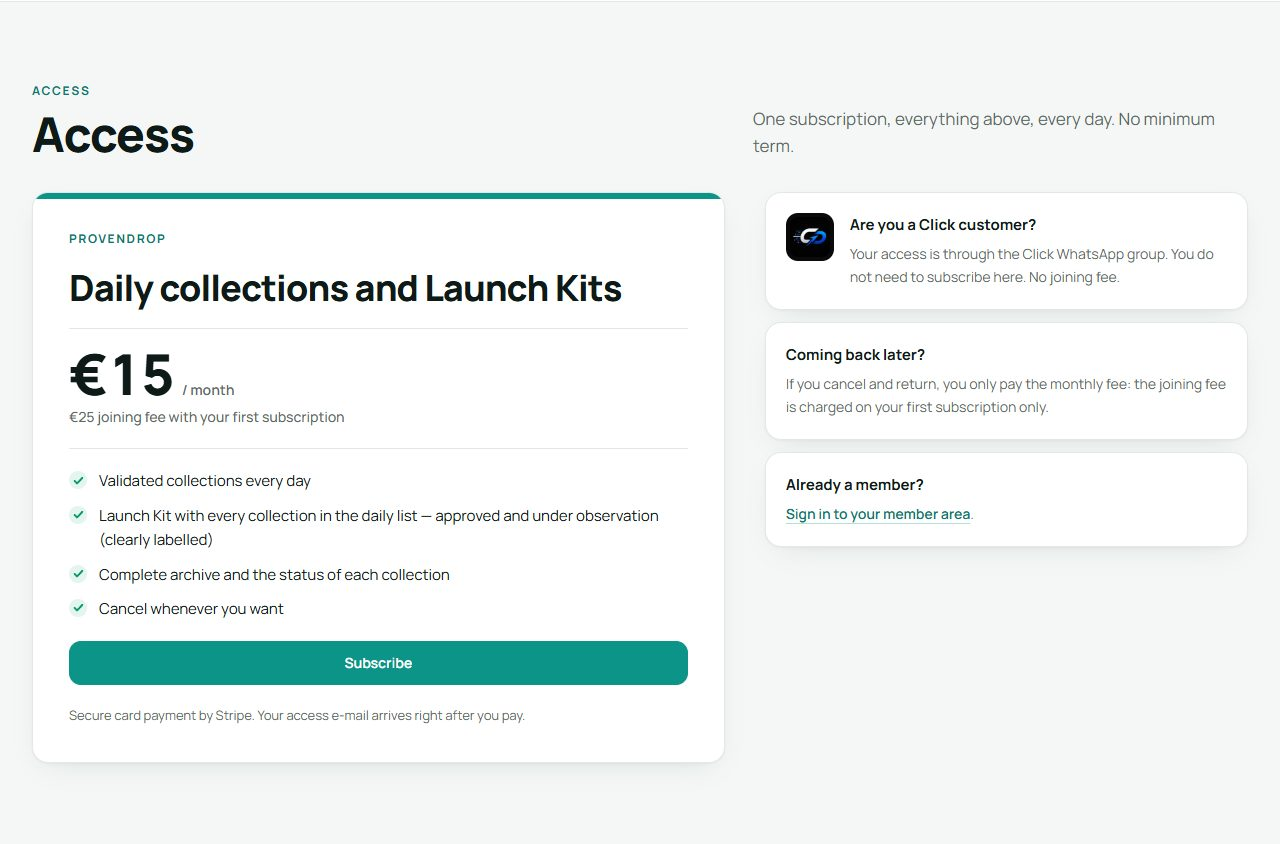
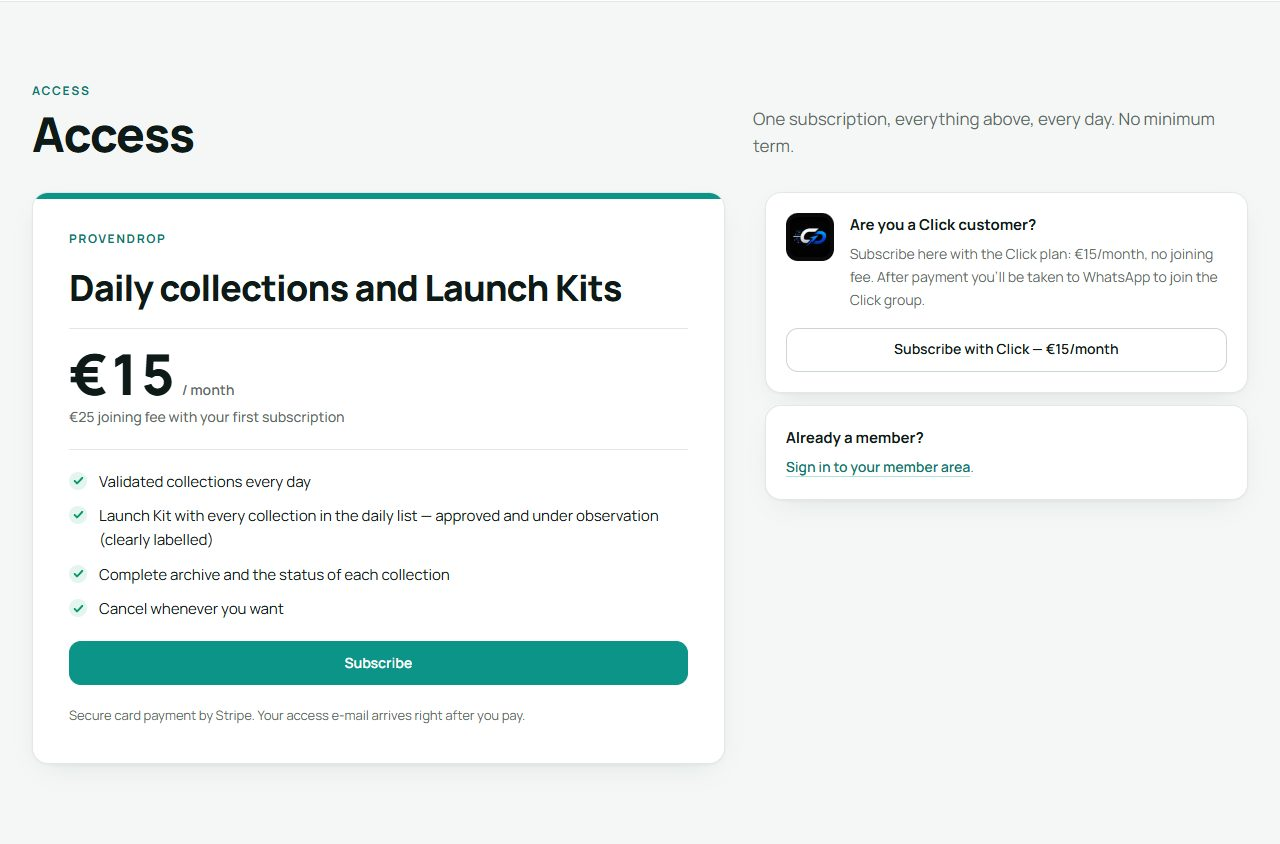
Docs e screenshots: Click no site, eventos de reembolso/disputa, scan de marca
STRIPE.md (link Click em config.js, redirecionamento com session_id, eventos
a ligar à mão, por fazer), TESTE.md (§0 sem vídeo, botões Click, scan de todo
o repositório sem a marca dos criativos de exemplo; §7.6 pelo botão do site;
§7.8 reembolso total), README (fluxo Click e eventos) e screenshots "depois"
regenerados.

Changed region(s): [[0.5938, 0.2773, 0.9688, 0.6161], [0.0625, 0.5545, 0.25, 0.5853]]

diff --git a/README.md b/README.md
@@ -8,9 +8,9 @@ Site estático (GitHub Pages) + plataforma de membros para a subscrição direta
 
 | | Via Click | Direto |
 |---|---|---|
-| Como paga | Payment Link que a Click envia aos clientes dela (fica como está) | Botão **Subscribe** do site → Payment Link "ProvenDrop Direct" |
+| Como paga | Botão **Subscribe with Click — €15/month** do site (ou o mesmo Payment Link enviado pela Click) → Payment Link "ProvenDrop via Click", sem adesão | Botão **Subscribe** do site → Payment Link "ProvenDrop Direct" (15 €/mês + 25 € de adesão) |
 | Onde recebe | Grupo de WhatsApp da Click (bot `/pr`) | Área pessoal `app.html` + e-mail diário |
-| Depois de pagar | `bem-vindo-click.html` | `bem-vindo.html` → e-mail com magic link → `app.html` |
+| Depois de pagar | `bem-vindo-click.html?session_id=…` → botão WhatsApp (+351 920 414 823) com o código da compra | `bem-vindo.html` → e-mail com magic link → `app.html` |
 | Registo | `subscritores.origem = 'click'` (sem login, sem e-mail; serve para a comissão) | `subscritores.origem = 'direto'` + utilizador Auth |
 
 O research, a Metodologia v7, o bot da Click, as folhas Google e a rotina diária não mudam. A única novidade na rotina é a chamada ao script `publicar_plataforma.py` (ver abaixo).
@@ -29,7 +29,7 @@ Os **segredos** (Stripe, Resend, CRON) nunca entram no repositório: vão para `
 |---|---|
 | `config.js` | Configuração pública (ver acima). Desde 2026-11-06 com os links **reais** do Stripe (Direct e portal); `STRIPE_LINK_RETURN` vazio até existir o link de regresso real. |
 | `config.local.example.js` | Modelo do `config.local.js` (links de **teste** do Stripe, só carregado em `localhost`; o próprio `config.local.js` está no `.gitignore`; os links de teste ficam no vault, não no repo). |
-| `index.html` | Página pública (inglês), **montra** desde 2026-11-06: não lê a folha pública nem mostra números reais (hero e lista do dia são maquetes estáticas com números desfocados e selo "Members only"; sem arquivo; validação em 3 frases; nichos só com nomes; mercados só com nomes; kit sem a estrutura do zip; FAQ genérico). Vídeo UGC de exemplo (`assets/ugc-example.mp4`), blocos Click com logo e "No joining fee", faixa "In partnership with Click Dynamics", Instagram no rodapé, meta tags Open Graph. |
+| `index.html` | Página pública (inglês), **montra** desde 2026-11-06: não lê a folha pública nem mostra números reais (hero e lista do dia são maquetes estáticas com números desfocados e selo "Members only"; sem arquivo; validação em 3 frases; nichos só com nomes; mercados só com nomes; kit em alto nível: creative prompt, reference photos, keywords, negative keywords, Shopping titles, landing-page copy, opportunity analysis; FAQ genérico). Cartões "Are you a Click customer?" com logo e botão "Subscribe with Click — €15/month", faixa "In partnership with Click Dynamics", Instagram no rodapé, meta tags Open Graph. Galeria de exemplos por fazer. |
 | `bem-vindo.html` | Pós-pagamento da subscrição direta. Logo novo, Instagram no rodapé. |
 | `bem-vindo-click.html` | Pós-pagamento dos clientes Click: lê `?session_id=` do redirecionamento do Stripe e abre o WhatsApp (`wa.me/351920414823`) com a mensagem pré-definida que leva o código da compra (nada mais é lido, guardado ou pedido ao Stripe). Texto PT/EN, "No joining fee". |
 | `app.html` | Área pessoal (inglês): login por magic link, Today, Archive, Preferences, Subscription, guia de 1 minuto. Só usa a chave *anon*; o acesso é decidido pelas políticas RLS. Kits por URL assinada (15 min) do bucket privado. |
@@ -44,7 +44,7 @@ Os **segredos** (Stripe, Resend, CRON) nunca entram no repositório: vão para `
 | `supabase/functions/_shared/` | `email.ts` (Resend + molde), `auth.ts` (x-cron-secret em tempo constante), `log.ts` (sem e-mails nem chaves nos logs), `alerta.ts` (e-mail ao Afonso: `ALERT_EMAIL`). |
 | `supabase/.env.example` | Nomes das variáveis (sem valores). |
 | `app.js` | Lógica da área pessoal (fora do HTML para a CSP ser estrita). "Today" e "Archive" são tabelas (uma linha por coleção, kit por baixo do nome; blocos chave/valor abaixo de 768 px); `renderFeed` preenche os 4 contadores do dia. Métricas (2026-11-06, só aqui, nunca no site): **Meta ads** = `anuncios_meta` ou `anuncios_ativos − anuncios_google`; **Google ads** = `anuncios_google`; **Meta reach** = `alcance_eu`, "No Meta data" quando não há anúncios Meta (nunca um 0 falso) e marcado com o país quando os anúncios são só fora da UE (GB/US/CH); NL/AT/CH/HU com nome (7.ª célula na faixa de mercados); no arquivo, coluna "Meta reach" e o mercado do veredito 🟢 ao lado do score (`7.2 CH`). Nichos selecionáveis: três (joalharia só como rótulo de linhas antigas). O fluxo Supabase (`feed_dia`, `verdes`, `subscritores`, kits) não mudou. |
-| `assets/` | `logo.svg` / `logo-email.png` (logo ProvenDrop: quadrado teal com 3 barras e um ponto), `og-image.png` (1200×630), `click-logo-{128,256}.{webp,png}` (logo da Click Dynamics), `ugc-example.mp4` + `ugc-example-poster.webp` (vídeo UGC de exemplo, gerado pelos prompts do kit, cortado para não mostrar marcas, H.264 ≤ 3 MB). Na raiz: `favicon.svg`, `favicon-32.png`, `favicon-16.png` (versão simplificada sem ponto, legível a 16 px), `apple-touch-icon.png`. |
+| `assets/` | `logo.svg` / `logo-email.png` (logo ProvenDrop: quadrado teal com 3 barras e um ponto), `og-image.png` (1200×630), `click-logo-{128,256}.{webp,png}` (logo da Click Dynamics). Na raiz: `favicon.svg`, `favicon-32.png`, `favicon-16.png` (versão simplificada sem ponto, legível a 16 px), `apple-touch-icon.png`. |
 | `docs/screenshots/` | `antes/` e `depois/` (1280 e 375 px, JPEG) das secções alteradas a 2026-11-06. |
 | `src/tailwind.css` | Fonte do CSS (Tailwind v4): tema "clean SaaS" (página clara `#F4F7F6`, cartões brancos arredondados com sombra suave, marca teal `#0D9488`, um painel escuro `#07201E` para os dados do dia, Manrope), e as poucas classes de componente que o `app.js` usa por nome (`.msg`, `.status`, `.dt`/`.dt-dark`, `.strip`, `.plat`, `.redact`, `.side-link`). |
 | `tailwind.css` | CSS compilado e minificado, lido por `index.html` e `app.html` (fica no repo: o GitHub Pages não faz build). Regenerar com `npm run build:css` sempre que se mudarem classes nas páginas ou no `app.js`. |
@@ -96,7 +96,8 @@ Códigos de saída: 0 ok · 3 rede bloqueada · 4 credenciais. Os zips encontrad
 
 - Acesso (`public.tem_acesso`): subscrição **direto**, não bloqueada, `ativo` ou `em_atraso` há menos de **7 dias** (decisão de 2026-11-02). Depois a área fecha e o e-mail diário pára; `invoice.paid` repõe.
 - Quem cancela e volta **não paga a adesão outra vez**: a área mostra o link de regresso (`STRIPE_LINK_RETURN`, só mensalidade) a ex-membros, quando esse link existir (em modo real ainda não existe: até lá a área mostra o Subscribe normal). O site diz que a adesão é cobrada na primeira subscrição.
-- **Adesão só no Direct** (decisão de 2026-11-06): quem entra pela Click paga 15 €/mês sem adesão; o link via Click nunca aparece no site.
+- **Adesão só no Direct** (decisão de 2026-11-06): quem entra pela Click paga 15 €/mês sem adesão. O link via Click está no site (`STRIPE_LINK_CLICK`, botão "Subscribe with Click" nos cartões "Are you a Click customer?"): botão → Stripe → `bem-vindo-click.html?session_id=…` → WhatsApp (+351 920 414 823) com o código da compra.
+- **Reembolso total e disputa revogam o acesso** (`charge.refunded` total e `charge.dispute.created` marcam `subscritores.bloqueado_em`); os dois eventos têm de estar ligados no endpoint real.
 - Não há promessa de vagas por nicho/país nem de reembolso (A9): o nicho e os países servem para ordenar as coleções.
 - Disputa → acesso suspenso + alerta; reembolso → só alerta. Alertas vão para `ALERT_EMAIL` (ou `EMAIL_REPLY_TO`).
 

diff --git a/docs/STRIPE.md b/docs/STRIPE.md
@@ -12,7 +12,7 @@ Rótulos dos menus: o Dashboard do Stripe em português (Europa). Entre parênte
 | Produto **ProvenDrop via Click**, 15 €/mês | `price_1UYaWLJPREpzETp6beErOUxC` | segredo `STRIPE_PRICE_CLICK` (valor por omissão do `setup-supabase.ps1`) |
 | Produto **Adesão ProvenDrop**, 25 € uma vez, **só no link Direct** | `price_1UYaXiJPREpzETp6GoaPRcuA` (produto `prod_VZk1TG0Nv8evG3`) | só no Stripe |
 | Payment Link **Direct** (Direct + Adesão: 40 € no 1.º mês, depois 15 €/mês) | `https://buy.stripe.com/7sYaEYd3Rcmid5w6nA4gg00` | `config.js` → `STRIPE_LINK_DIRECT` |
-| Payment Link **via Click** (só ProvenDrop via Click, 15 €/mês, **sem adesão**) | `https://buy.stripe.com/9B6eVe5BpgCyfdEaDQ4gg01` | só a Click o usa; nunca aparece no site |
+| Payment Link **via Click** (só ProvenDrop via Click, 15 €/mês, **sem adesão**) | `https://buy.stripe.com/9B6eVe5BpgCyfdEaDQ4gg01` | `config.js` → `STRIPE_LINK_CLICK`: botão "Subscribe with Click — €15/month" nos cartões "Are you a Click customer?" do site (desde 2026-11-06, visível a todos); a Click também o pode enviar |
 | Portal de cliente | `https://billing.stripe.com/p/login/7sYaEYd3Rcmid5w6nA4gg00` | `config.js` → `STRIPE_PORTAL_LINK` |
 | Webhook `provendrop-supabase` | `we_1UYavbJPREpzETp6L1Gn66lh` → `https://maljrfgnnhtrjunnwlre.supabase.co/functions/v1/stripe-webhook` | segredo `STRIPE_WEBHOOK_SECRET` (o `whsec_` deste endpoint) |
 | Payment Link **Direct de regresso** (só mensalidade, para ex-membros) | **ainda não existe em modo real** | `config.js` → `STRIPE_LINK_RETURN` fica vazio; a área mostra o Subscribe normal a ex-membros até existir |
@@ -37,9 +37,9 @@ Categoria fiscal dos três produtos: General – Services (`txcd_20030000`). Str
 - **Produtos**: só ProvenDrop via Click 15,00 €/mês. **Sem** adesão.
 - **Opções**: e-mail e **telefone** obrigatório (para a Click juntar ao grupo); sem códigos promocionais.
 - **Metadados**: `origem` = `click`.
-- **Depois do pagamento** → `https://afonsolopes22.github.io/ProvenDrop/bem-vindo-click.html`.
+- **Depois do pagamento** → `https://afonsolopes22.github.io/ProvenDrop/bem-vindo-click.html` com `?session_id={CHECKOUT_SESSION_ID}` (confirmar que o redirecionamento inclui este parâmetro: a página põe o código da compra na mensagem de WhatsApp para o +351 920 414 823).
 
-Quem paga por este link fica em `subscricoes`/`subscritores` com `origem = click` e o estado da subscrição (para a comissão), **sem login e sem acesso** à área (RLS).
+Quem paga por este link fica em `subscricoes`/`subscritores` com `origem = click` e o estado da subscrição (para a comissão), **sem login e sem acesso** à área (RLS). Recebe as coleções no grupo de WhatsApp da Click.
 
 ## c) Portal de cliente: confirmar
 
@@ -86,8 +86,8 @@ O estado **nunca** é copiado do evento: em todos os casos a função relê a su
 | `checkout.session.completed` (pago) | Sincroniza a subscrição da sessão. Origem: metadata do link → price_id → payment link. Alerta se o e-mail ficar com duas subscrições a cobrar. |
 | `customer.subscription.created` / `updated` / `deleted` | Sincroniza: `ativo` (active/trialing), `em_atraso` (past_due/unpaid; guarda `em_atraso_desde`), `incompleto` (incomplete: sem login nem e-mail), `cancelado` (canceled/paused/incomplete_expired). `cancel_at_period_end` → `acesso_fim` (B4). |
 | `invoice.paid` / `invoice.payment_failed` | Sincroniza a subscrição da fatura (relida no Stripe). |
-| `charge.dispute.created` | Bloqueia o acesso de todos os subscritores desse cliente (`bloqueado_em`) e envia alerta com o prazo de resposta (A4). |
-| `charge.refunded` | Só alerta (pode ser parcial ou de boa vontade); cancelar à mão no Stripe se for caso disso. |
+| `charge.dispute.created` | Marca todos os subscritores desse cliente (`bloqueado_em`, `bloqueado_motivo = "disputa dp_…"`), o que revoga o acesso (`tem_acesso` → false), e envia alerta com o prazo de resposta (A4). |
+| `charge.refunded` | **Total** (`amount_refunded ≥ amount`): marca o subscritor (`bloqueado_motivo = "reembolso ch_…"`) e revoga o acesso, alerta a pedir o cancelamento da subscrição no Stripe. **Parcial**: só alerta (A4, 2026-11-06). |
 
 Acesso (`public.tem_acesso`): origem direto, não bloqueado, `ativo` **ou** `em_atraso` há menos de **7 dias** (M1). Depois disso a área mostra "Payment overdue" e o e-mail diário deixa de sair; `invoice.paid` repõe tudo.
 
@@ -104,8 +104,9 @@ Em modo real o Checkout, o portal, os recibos e as faturas mostram o **Nome púb
 ## Por fazer (à mão, no painel ou no terminal)
 
 - [ ] Correr `scripts\setup-supabase.ps1` com `sk_live_` e o `whsec_` do endpoint real (os `price_` reais já são os valores por omissão). No fim o script volta a fazer deploy do `stripe-webhook` com `--no-verify-jwt`.
-- [ ] Acrescentar `charge.dispute.created` e `charge.refunded` ao endpoint `provendrop-supabase` (A4).
-- [ ] Criar o Payment Link **Direct de regresso** em modo real (só o preço mensal Direct; metadata `origem=direto`, `tipo=regresso`; → `bem-vindo.html`; sem códigos) e pôr o URL em `config.js` → `STRIPE_LINK_RETURN`. O `scripts\stripe-teste.ps1` só trabalha em modo de teste.
+- [ ] Acrescentar `charge.dispute.created` e `charge.refunded` ao endpoint `provendrop-supabase` (A4): Programadores → Webhooks → `provendrop-supabase` → ⋯ → **Atualizar detalhes** → **Eventos** → procurar e marcar os dois → Guardar. Sem eles, uma disputa ou um reembolso total não revoga o acesso.
+- [ ] Criar o Payment Link **Direct de regresso** em modo real (só o preço mensal Direct; metadata `origem=direto`, `tipo=regresso`; → `bem-vindo.html`; sem códigos) e pôr o URL em `config.js` → `STRIPE_LINK_RETURN`. O `scripts\stripe-teste.ps1` só trabalha em modo de teste. Até existir, o site não promete "só mensalidade" a quem volta (frase e cartão "Coming back later?" retirados a 2026-11-06).
+- [ ] Galeria de 4 exemplos de criativos no Launch Kit: só com imagens sem qualquer marca.
 - [ ] Teste real (TESTE.md §7): pagar o Direct (40 €), ver a linha, entrar por magic link, descarregar o kit, cancelar no portal, perder o acesso, reembolsar; pelo link Click confirmar `origem = click`, sem acesso e sem adesão.
 - [ ] Termos / privacidade / reembolsos publicados; links em **Dados públicos**; "Exigir termos de serviço" nos 2 links.
 - [ ] Quando houver domínio: redirecionamentos dos 2 links e do portal, `APP_URL`, Redirect URLs do Supabase (DOMINIO.md).

diff --git a/docs/TESTE.md b/docs/TESTE.md
@@ -23,8 +23,8 @@ Legenda: ✅ passou · ❌ falhou · ⏳ por executar (depende de contas que ain
 | Segurança do site (automático): `index.html`, `bem-vindo*.html`, `app.html`, `config.js` sem `/collections/`, `drive.google`, `zip_url`, `link_colecao`, ID da folha proibida, nomes de lojas do `feed_bot.json` nem nomes do `anunciantes_google.json`; `data.json` → 404 | ✅ 2026-11-03 (único "match" foi a palavra genérica `paises`) |
 | Migração `0005_google_e_kits.sql` aplicada com `supabase db query --linked` (colunas confirmadas em `feed_dia` e `verdes`, `kit_pronto` true nas 2 linhas com zip, `anon` sem privilégios) e `email-diario` com novo deploy (`--no-verify-jwt`) | ✅ 2026-11-03 |
 | Função publicada responde: POST sem assinatura → 400; `?reenviar_boas_vindas=` sem `x-cron-secret` → 401 `{"erro":"não autorizado"}`; GET → 405 | ✅ 2026-11-02 (curl) |
-| **Modo real + montra (2026-11-06)** · Segurança do site: `index.html`, `bem-vindo*.html`, `app.html`, `config.js`, `app.js` sem `/collections/`, `drive.google`, `zip_url`, ID da folha proibida, `docs.google.com`/`gviz`, "Bellora", nomes de lojas (`feed_bot.json`) nem de anunciantes (`anunciantes_google.json`, 95 nomes); `data.json` → 404 | ✅ 2026-11-06 (Playwright + fetch local; únicos "matches": a coluna `link_colecao` lida por `app.js` na área privada e a data `2026-11-04` num comentário) |
-| `index.html` **não faz pedidos à folha pública**: 0 pedidos a `docs.google.com`/`gviz` a 1280 e 375 px; só `fonts.googleapis.com`/`fonts.gstatic.com`; 0 erros de consola; sem overflow a 375; nenhum "0" visível nas maquetes (números desfocados); sem secção de arquivo; vídeo UGC com `muted loop playsinline controls preload="none"` | ✅ 2026-11-06 |
+| **Modo real + montra (2026-11-06)** · Segurança do site: `index.html`, `bem-vindo*.html`, `app.html`, `config.js`, `app.js` sem `/collections/`, `drive.google`, `zip_url`, ID da folha proibida, `docs.google.com`/`gviz`, o nome da marca dos criativos de exemplo (lista no script de teste, fora do repo), nomes de lojas (`feed_bot.json`) nem de anunciantes (`anunciantes_google.json`, 95 nomes); `data.json` → 404 | ✅ 2026-11-06 (Playwright + fetch local; únicos "matches": a coluna `link_colecao` lida por `app.js` na área privada e a data `2026-11-04` num comentário) |
+| `index.html` **não faz pedidos à folha pública**: 0 pedidos a `docs.google.com`/`gviz` a 1280 e 375 px; só `fonts.googleapis.com`/`fonts.gstatic.com`; 0 erros de consola; sem overflow a 375; nenhum "0" visível nas maquetes (números desfocados); sem secção de arquivo; sem vídeo nem menções a vídeos/UGC/"20 creatives" (o kit tem um creative prompt por coleção); botões "Subscribe with Click — €15/month" com o link `STRIPE_LINK_CLICK` e a altura do Subscribe, desativados quando vazio; sem "Coming back later?" nem "monthly fee only"; scan de todo o repositório (nomes e conteúdo dos 119 ficheiros seguidos pelo git) sem a marca dos criativos de exemplo | ✅ 2026-11-06 |
 | Área de membros continua a ler do Supabase (`feed_dia` → `select dia` + `select *`, `verdes`, `subscritores`; REST simulado com o mesmo caminho de código, `app.js` sem alterações ao fetch): Today com 4 linhas; **Meta ads** = `anuncios_meta` ou `anuncios_ativos − anuncios_google` (14 − 3 = 11); linha sem Meta → **"No Meta data"** em vez de 0; alcance com anúncios só no Reino Unido/Suíça marcado com o país, nunca "EU reach"; **Switzerland / Netherlands / Hungary** com nome (7.ª célula na faixa de mercados); Archive com coluna **Meta reach** e score por mercado (**7.2 CH**, **7.2 HU**); 0 erros de consola | ✅ 2026-11-06 (Playwright, Supabase simulado) |
 | Lighthouse mobile (`index.html`, performance): **antes 91 / depois 93**; LCP 2,8 s → 2,6 s; **CLS 0** nos dois; peso 189 → 171 KiB | ✅ 2026-11-06 |
 | Screenshots desktop (1280) e mobile (375) das secções alteradas | ✅ `docs/screenshots/antes/` e `docs/screenshots/depois/` (JPEG) |
@@ -135,7 +135,8 @@ Pré-requisitos: PR fundido em `main`; `scripts\setup-supabase.ps1` corrido com 
 | 7.3 | E-mail "Welcome to ProvenDrop: your access" → **Sign in to ProvenDrop** | Abre `app.html` com sessão; Today mostra as coleções do dia; **Download Launch Kit** descarrega o zip | ⏳ |
 | 7.4 | Subscription → **Manage subscription** → portal real → **Cancel subscription** | `customer.subscription.updated` com `cancel_at_period_end`; a área mostra "ends on <data>"; para cortar já: Stripe → cliente → subscrição → Cancelar **imediatamente** → `deleted` → `cancelado` → `app.html` "Subscription cancelled", sem acesso (RLS devolve 0 linhas) | ⏳ |
 | 7.5 | Stripe → Pagamentos → o pagamento de 40 € → **Reembolsar** (total) | `charge.refunded` → alerta "Reembolso total" em `ALERT_EMAIL` (se o evento estiver no endpoint); nada muda no acesso (já cancelado) | ⏳ |
-| 7.6 | Abrir o **link da Click** (o que a Click envia; não está no site) e pagar com **outro** e-mail | Checkout só com "ProvenDrop via Click · 15,00 €/mês", **sem adesão**; redireciona para `bem-vindo-click.html` ("No joining fee"); SQL: linha `origem = click`, `estado = ativo`, `user_id` null; **nenhum** e-mail de boas-vindas; `app.html` com esse e-mail → "This e-mail has no subscription…". Depois: cancelar imediatamente e reembolsar no Stripe | ⏳ |
+| 7.6 | No site, cartão "Are you a Click customer?" → **Subscribe with Click — €15/month** e pagar com **outro** e-mail | Checkout só com "ProvenDrop via Click · 15,00 €/mês", **sem adesão**; redireciona para `bem-vindo-click.html?session_id=cs_live_…`; o botão **Send message on WhatsApp** abre o +351 920 414 823 com a mensagem que leva esse código; SQL: linha `origem = click`, `estado = ativo`, `user_id` null; **nenhum** e-mail de boas-vindas; `app.html` com esse e-mail → "This e-mail has no subscription…". Depois: cancelar imediatamente e reembolsar no Stripe | ⏳ |
+| 7.8 | Reembolso total do 7.1 (com `charge.refunded` ligado no endpoint) | `charge.refunded` → `subscritores.bloqueado_em` preenchido com motivo `reembolso ch_…`; `app.html` → "Access suspended"; alerta "Reembolso total: acesso revogado". Reembolso **parcial** → só alerta, acesso mantido | ⏳ |
 | 7.7 | Depois dos dois reembolsos | `select * from public.subscricoes` mostra as duas linhas `cancelado`; `reconciliar` (06:30 UTC ou `POST …/reconciliar` com `x-cron-secret`) sem divergências | ⏳ |
 
 ## 5. Depois do teste
